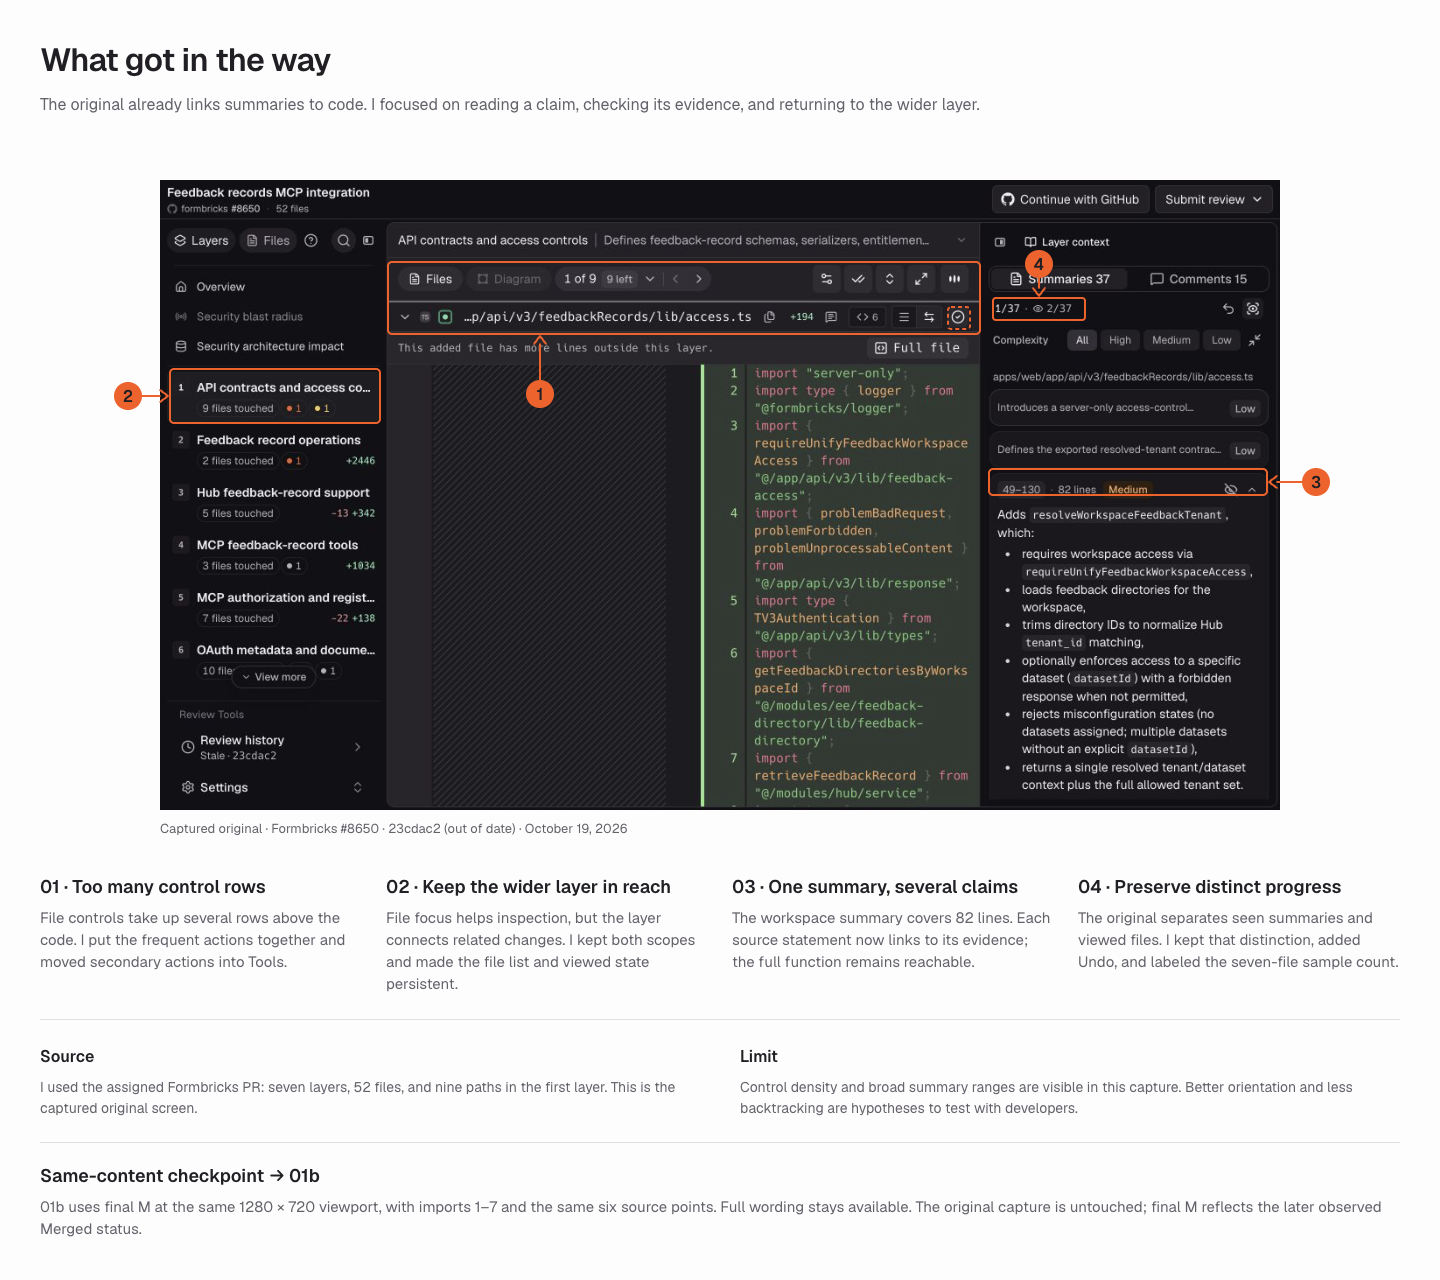
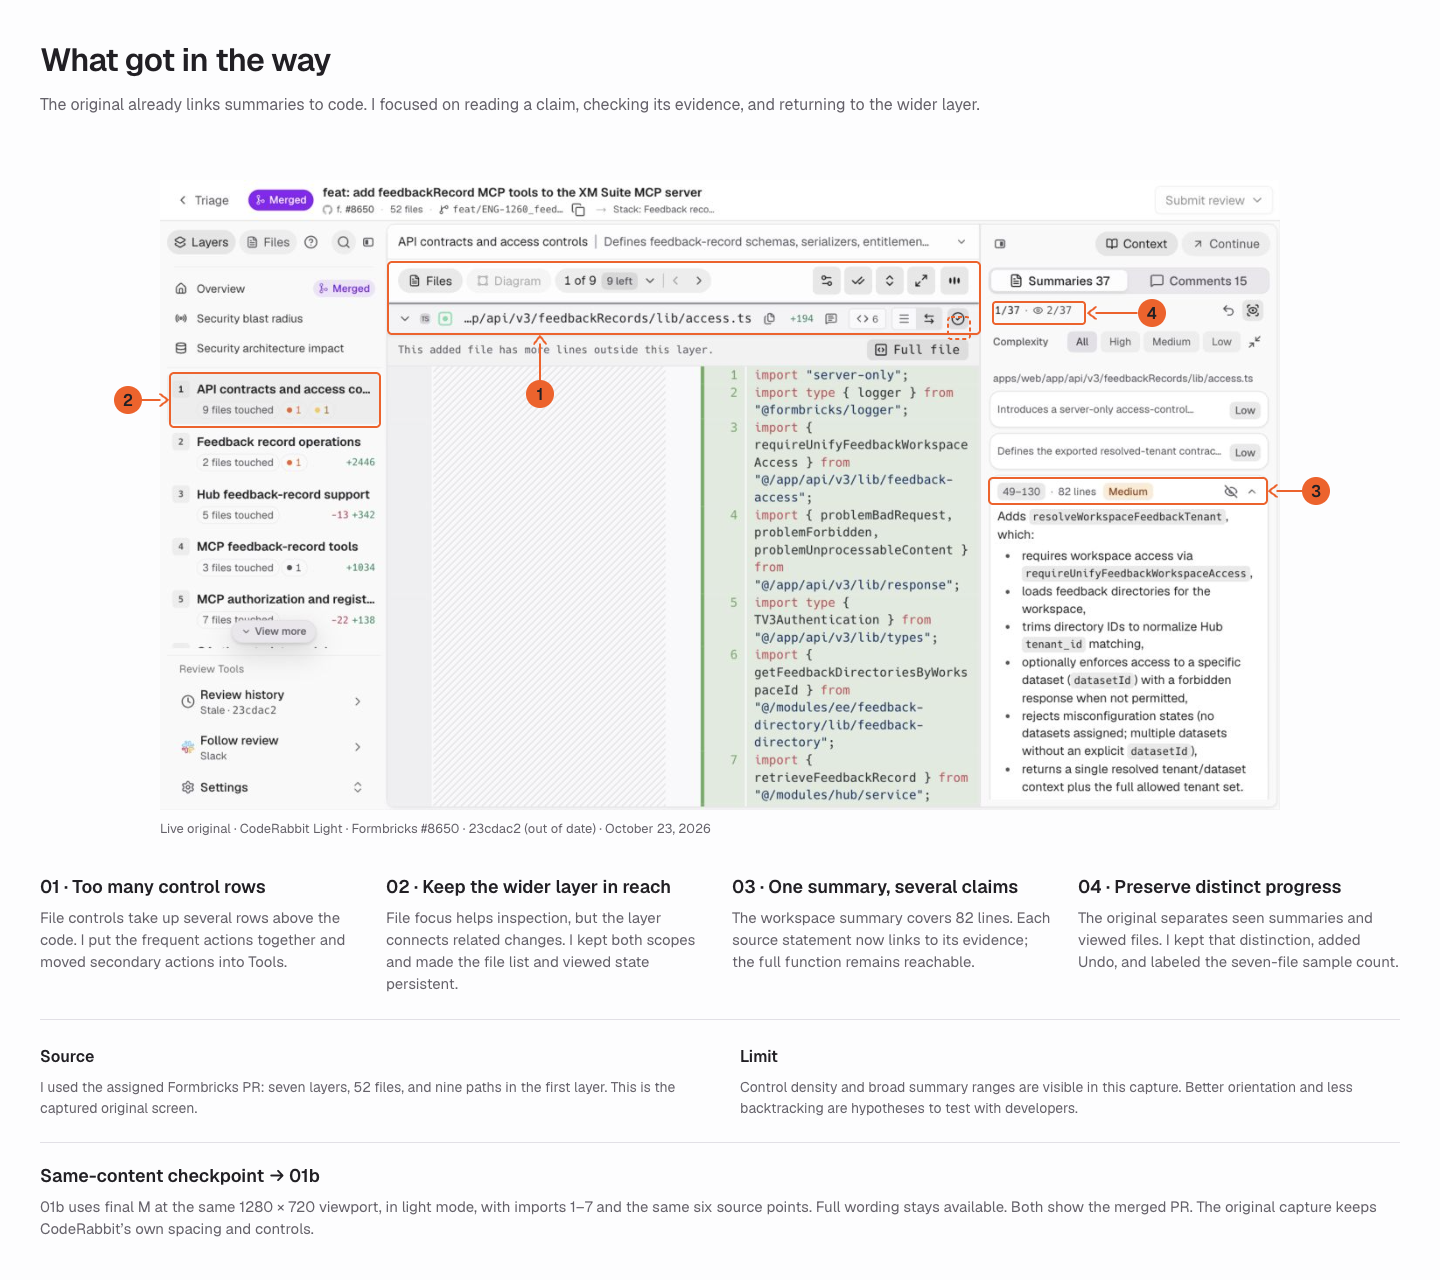
Use live light-mode CodeRabbit capture in the comparison

diff --git a/dist/comparison.html b/dist/comparison.html
@@ -1,6 +1,6 @@
 <!doctype html><html lang="en"><head><meta charset="utf-8"><meta name="viewport" content="width=device-width,initial-scale=1"><title>Change Stack · Same-content comparison</title><link rel="stylesheet" href="styles.css?v=ten-reviews-20261020"><link rel="stylesheet" href="brand.css?v=ten-reviews-20261020"><style>
 body{display:block;height:auto;overflow:auto;min-width:0;padding:32px}header{display:flex;align-items:center;justify-content:space-between;gap:24px;margin-bottom:16px}h1{font-size:24px;white-space:normal}p{font-size:14px;color:var(--muted);line-height:22px;margin:8px 0 16px;max-width:1000px}.facts{display:flex;flex-wrap:wrap;gap:8px 24px;font-size:13px;padding:16px 0;border-block:1px solid var(--line)}.comparison{display:flex;gap:24px;align-items:flex-start}.comparison figure{flex:1;min-width:0;margin:0}figcaption{font-size:14px;font-weight:600;margin-bottom:12px}img{width:100%;display:block;border:1px solid var(--line);aspect-ratio:16/9}.comparison.single{display:block;max-width:1280px;margin:auto}.comparison.single figure{display:none}.comparison.single figure.visible{display:block}.controls{display:flex;flex-wrap:wrap;gap:8px;margin:24px 0}button[aria-pressed=true]{background:var(--selected);color:var(--brand-ink);border-color:#e57340}.caption{font-size:12px;line-height:19px;margin-top:12px}.shared-content{margin-top:32px;max-width:1280px;border-top:1px solid var(--line);padding-top:16px}.shared-content summary{cursor:pointer;font-size:14px}.shared-content h2{font-size:16px;margin:24px 0 8px}.shared-content pre{font:13px/24px var(--mono);overflow:auto;background:var(--paper);padding:16px;border:1px solid var(--line)}.shared-content ul{font-size:14px;line-height:22px;max-width:800px}.shared-content li+li{margin-top:8px}@media(max-width:900px){.comparison{display:block}.comparison figure{margin-bottom:32px}header{align-items:flex-start;flex-direction:column}}
-.review-task{max-width:1000px;margin:40px auto;border-top:1px solid var(--line);padding-top:24px;scroll-margin-top:24px}.review-task h2{font-size:20px}.review-task ol{padding-left:22px;font-size:14px;line-height:22px}.review-task li{margin-bottom:12px}.review-task figure{margin:24px 0 0}.review-task img{aspect-ratio:3/2}.review-task figcaption{font-size:12px;font-weight:400;margin-top:8px}.task-link{font-weight:600}</style></head><body><header><h1>The same change, before and after</h1><a href="index.html">Open working prototype</a></header><p>Formbricks #8650 · access.ts · 23cdac2. Both show imports 1–7 and the same six workspace-tenant points for lines 49–130, at 1280 × 720. The redesign uses final M’s shorter check labels; the full wording is available below and in the prototype. The original capture is untouched. It shows historical progress and review availability; M starts local progress at zero and shows the later observed Merged status.</p><div class="facts"><span>Same file and commit</span><span>Same seven imports</span><span>Six source points retained</span><span>Final M layout</span></div><div class="controls" role="group" aria-label="Comparison view"><button data-view="both" aria-pressed="true">Side by side</button><button data-view="before" aria-pressed="false">Original at full width</button><button data-view="after" aria-pressed="false">Redesign at full width</button></div><div class="comparison" id="comparison"><figure id="before"><figcaption>Original · captured assigned review run</figcaption><img src="reference.png" width="1280" height="720" alt="Original CodeRabbit screen at access.ts imports, file 1 of 9 unviewed, with the expanded workspace-tenant summary and two of 37 summaries seen."><p class="caption">The split view wraps the same imports into a narrow after column. The summary is expanded while the code remains at imports.</p></figure><figure id="after"><figcaption>Final M · same content</figcaption><img src="comparison-matched.png?v=compact-review-20261023" width="1280" height="720" alt="Final M showing the same seven imports, short labels for all six source points, the fixed layer switcher and merged PR status."><p class="caption">Frequent actions sit beside the file. Short check labels lead to code, with full wording one click away. All seven layers remain reachable above the scrolling file list. This static slice holds the code at imports so content can be compared.</p></figure></div><section id="review-task" class="review-task"><h2>Try the access-check task</h2><p>The comparison above checks that the same content survived the redesign. This task tests the reason for changing it: can you check the access call, inspect its guard and get back to the caller without losing your place?</p><ol><li><strong>Check the call.</strong> Open “Require workspace access · L57–65” in access.ts. Read what the caller passes to the guard.</li><li><strong>Inspect the guard.</strong> Open feedback-access.ts and read lines 20–49 with the surrounding code. Ask whether this range supports the summary, and what else you would need to inspect.</li><li><strong>Return to the caller.</strong> Choose “Return to access.ts”. The selected statement and reading position return. Neither file is marked viewed by visiting it.</li></ol><p><a class="task-link" href="index.html?task=access-check">Start the access-check task →</a></p><figure><img src="guard-state.png" width="1440" height="960" loading="lazy" alt="Final M guard state with feedback-access.ts selected and Return to access.ts beside the linked range."><figcaption>The Paper guard state. Use the working prototype to check the return behavior.</figcaption></figure><p class="caption">One manually mapped route on the same Formbricks commit. This demonstrates a proposed interaction; it is not a measured improvement. A useful counter-test starts from code and asks what could make you disagree with the summary.</p></section><details class="shared-content"><summary>Check the shared code and full summary</summary><h2>access.ts · lines 1–7</h2><pre> 1  import &quot;server-only&quot;;
+.review-task{max-width:1000px;margin:40px auto;border-top:1px solid var(--line);padding-top:24px;scroll-margin-top:24px}.review-task h2{font-size:20px}.review-task ol{padding-left:22px;font-size:14px;line-height:22px}.review-task li{margin-bottom:12px}.review-task figure{margin:24px 0 0}.review-task img{aspect-ratio:3/2}.review-task figcaption{font-size:12px;font-weight:400;margin-top:8px}.task-link{font-weight:600}</style></head><body><header><h1>The same change, before and after</h1><a href="index.html">Open working prototype</a></header><p>Formbricks #8650 · access.ts · 23cdac2. Both show imports 1–7 and the same six workspace-tenant points for lines 49–130, at 1280 × 720. The redesign uses final M’s shorter check labels; the full wording is available below and in the prototype. The original was captured live on October 23 in CodeRabbit Light, with its spacing unchanged. Both show the merged PR. M starts local progress at zero; the original retains its observed progress.</p><div class="facts"><span>Same file and commit</span><span>Same seven imports</span><span>Six source points retained</span><span>Final M layout</span></div><div class="controls" role="group" aria-label="Comparison view"><button data-view="both" aria-pressed="true">Side by side</button><button data-view="before" aria-pressed="false">Original at full width</button><button data-view="after" aria-pressed="false">Redesign at full width</button></div><div class="comparison" id="comparison"><figure id="before"><figcaption>Original · live capture · CodeRabbit Light</figcaption><img src="reference.png?v=light-20261023" width="1280" height="720" alt="Original CodeRabbit screen at access.ts imports, file 1 of 9 unviewed, with the expanded workspace-tenant summary and two of 37 summaries seen."><p class="caption">The split view wraps the same imports into a narrow after column. The summary is expanded while the code remains at imports.</p></figure><figure id="after"><figcaption>Final M · same content</figcaption><img src="comparison-matched.png?v=compact-review-20261023" width="1280" height="720" alt="Final M showing the same seven imports, short labels for all six source points, the fixed layer switcher and merged PR status."><p class="caption">Frequent actions sit beside the file. Short check labels lead to code, with full wording one click away. All seven layers remain reachable above the scrolling file list. This static slice holds the code at imports so content can be compared.</p></figure></div><section id="review-task" class="review-task"><h2>Try the access-check task</h2><p>The comparison above checks that the same content survived the redesign. This task tests the reason for changing it: can you check the access call, inspect its guard and get back to the caller without losing your place?</p><ol><li><strong>Check the call.</strong> Open “Require workspace access · L57–65” in access.ts. Read what the caller passes to the guard.</li><li><strong>Inspect the guard.</strong> Open feedback-access.ts and read lines 20–49 with the surrounding code. Ask whether this range supports the summary, and what else you would need to inspect.</li><li><strong>Return to the caller.</strong> Choose “Return to access.ts”. The selected statement and reading position return. Neither file is marked viewed by visiting it.</li></ol><p><a class="task-link" href="index.html?task=access-check">Start the access-check task →</a></p><figure><img src="guard-state.png" width="1440" height="960" loading="lazy" alt="Final M guard state with feedback-access.ts selected and Return to access.ts beside the linked range."><figcaption>The Paper guard state. Use the working prototype to check the return behavior.</figcaption></figure><p class="caption">One manually mapped route on the same Formbricks commit. This demonstrates a proposed interaction; it is not a measured improvement. A useful counter-test starts from code and asks what could make you disagree with the summary.</p></section><details class="shared-content"><summary>Check the shared code and full summary</summary><h2>access.ts · lines 1–7</h2><pre> 1  import &quot;server-only&quot;;
  2  import type { logger } from &quot;@formbricks/logger&quot;;
  3  import { requireUnifyFeedbackWorkspaceAccess } from &quot;@/app/api/v3/lib/feedback-access&quot;;
  4  import { problemBadRequest, problemForbidden, problemUnprocessableContent } from &quot;@/app/api/v3/lib/response&quot;;

diff --git a/docs/recording-script.md b/docs/recording-script.md
@@ -1,53 +1,63 @@
-# Recording script
+# Three-minute recording script
 
-Read the quoted text. Click cues and timestamps include pauses. Paper requires sign-in.
+Revision 2. Read the spoken text; leave the action cues outside the recording.
 
-## 0:00–0:20 · Start on the final Paper screen
+## 0:00-0:16 · Start with M in Paper
 
-Click: Keep the cursor still. Let them see the design.
+Click: Hold on the final design. Keep the cursor still.
 
-> Hi, I’m Parth. I kept the layer-based review model and focused on staying oriented while checking a summary against the code. I’ll show you the source, the changes I made, and one short review path.
+> Hi, I’m Parth. I kept the layer-based review model. I focused on keeping my place while checking a summary against the code. Here’s the problem I chose and how I worked through it.
 
-## 0:20–0:45 · Show the source diagnosis
+## 0:16-0:36 · Show the source diagnosis
 
-Click: Point to the source summary, file controls and layer progress.
+Click: Zoom into the annotated file controls, layer list and summary. Point once, then move the cursor away.
 
-> The original already has summary jumps and explicit viewed status. What I found difficult was keeping track of the file, the scope of the context, and the code behind each point. Several controls also compete for space above the diff.
+> The original already has summary jumps and viewed status. What I found difficult was keeping track of the file, whether I’m looking at this file or the whole layer, and the code behind each point. Several control rows also compete for space above the diff.
 
-Pause: Pause on the annotations.
+## 0:36-1:05 · Explain the layout tradeoff
 
-## 0:45–1:05 · Show the matched comparison
+Click: Show the original and redesigned controls at a readable scale. Then show the persistent file list and point to Focus Z. Keep the same imports in the comparison.
 
-Click: Point to the same imports and six source points. Note the original capture is untouched; final M shows the later merged status.
+> I brought the frequent file actions together above the code and collapsed the layer description. That gives the code more room.
 
-> I kept the same imports and six source points for this comparison. The complete wording is still available. In the final screen, the file list stays available in the rail, and the layer description starts collapsed. I brought the frequent file actions together above the code.
+> I kept the file list visible because checking this change takes you across files. That costs some code width. I kept Focus mode available for when you need more room.
 
-## 1:05–1:50 · Follow the workspace access check
+## 1:05-1:20 · Check the summary against code
 
-Click: Switch to the prototype at access.ts. Click L57–65 beside the first workspace-access bullet. Click Inspect guard in feedback-access.ts. Pause on the 20–49 summary, then click Return to access.ts.
+Click: At 1:10 open Read full source summary. At 1:14 close it and select L57-65. Wait for the highlight. Say the last sentence at 1:17, after the correct range is visible.
 
-> I retained all six source points as short checks with direct code links. The full wording is still here. This first check calls the workspace access guard.
+> I kept the same six points, shortened them for scanning, and left the full wording available.
 
-> I can follow that call into the guard, read the captured explanation there, and return to the caller without finding my place again.
+> This calls the access guard.
 
-> I manually mapped these links. They give you a starting point; you still need to read the surrounding code. This is one captured cross-file route, rather than automatic dependency navigation.
+## 1:20-1:50 · Inspect the guard and return
 
-Pause: Keep the cursor away from the highlighted code while speaking.
+Click: At 1:20 click Inspect guard. At 1:25 scroll to the access check and entitlement gate. At 1:33 click Return to access.ts. Pause on the restored highlight before speaking at 1:36.
 
-## 1:50–2:15 · Show context scope
+> I can follow that call into the guard and read the access check and entitlement gate here.
 
-Click: Choose Entire layer. Point to file groups and 14 of 37 coverage. Return to This file.
+> Now I’m back at the same selection and reading position, without finding my place again. I mapped this route manually. You still need to read the surrounding code.
 
-> This file keeps the explanation close to what I’m reading. Entire layer starts with short rows grouped by file, so I can scan before choosing one. The coverage label tells me where the sample ends.
+## 1:50-2:12 · Switch context
 
-## 2:15–2:35 · Show progress and Undo
+Click: At 1:56 click Entire layer. Let the grouped summaries appear before describing them. At 2:09 return to This file. No need to read the coverage counts aloud.
 
-Click: Point to Included files 0 / 7 and the two unavailable layer patches. Click Mark viewed, then Undo.
+> This file keeps the explanation close to what I’m reading.
 
-> Opening a file doesn’t mark it reviewed. I kept that deliberate action and added Undo. Progress is labeled by scope. This PR is merged, so Submit review is disabled.
+> Entire layer groups the summaries by file, so I can look across the change and choose where to go next.
 
-## 2:35–3:00 · Close on the limits and next test
+## 2:12-2:35 · Show deliberate progress
 
-Click: Hold on the final screen. Show the three submission links at about 2:55. Split is optional if asked afterward.
+Click: Point to the unchanged viewed count. At 2:20 click Mark viewed. At 2:26 click Undo while its toast is visible. Briefly point to disabled Submit review.
 
-> My hypothesis is less searching and backtracking without losing understanding. I’d compare both screens with developers: explain the access check, inspect its guard, then return. Working clicks don’t prove that. This sample includes seven diffs; modified files and stale links still need testing.
+> Opening a file doesn’t mark it viewed. I kept that as a deliberate action.
+
+> The count and file indicator update together.
+
+> I can undo that. Submit is disabled because this PR is merged.
+
+## 2:35-3:00 · Explain what needs testing
+
+Click: Hold on the final state. Show Paper, prototype and rationale at 2:55. Paper needs sign-in. Put clickable links beside your recording.
+
+> I’d test whether developers can check the code and get back with less searching, while still understanding the change. I haven’t tested that with developers yet. This sample has seven of fifty-two diffs. Next I’d test modified files and links that go stale.
